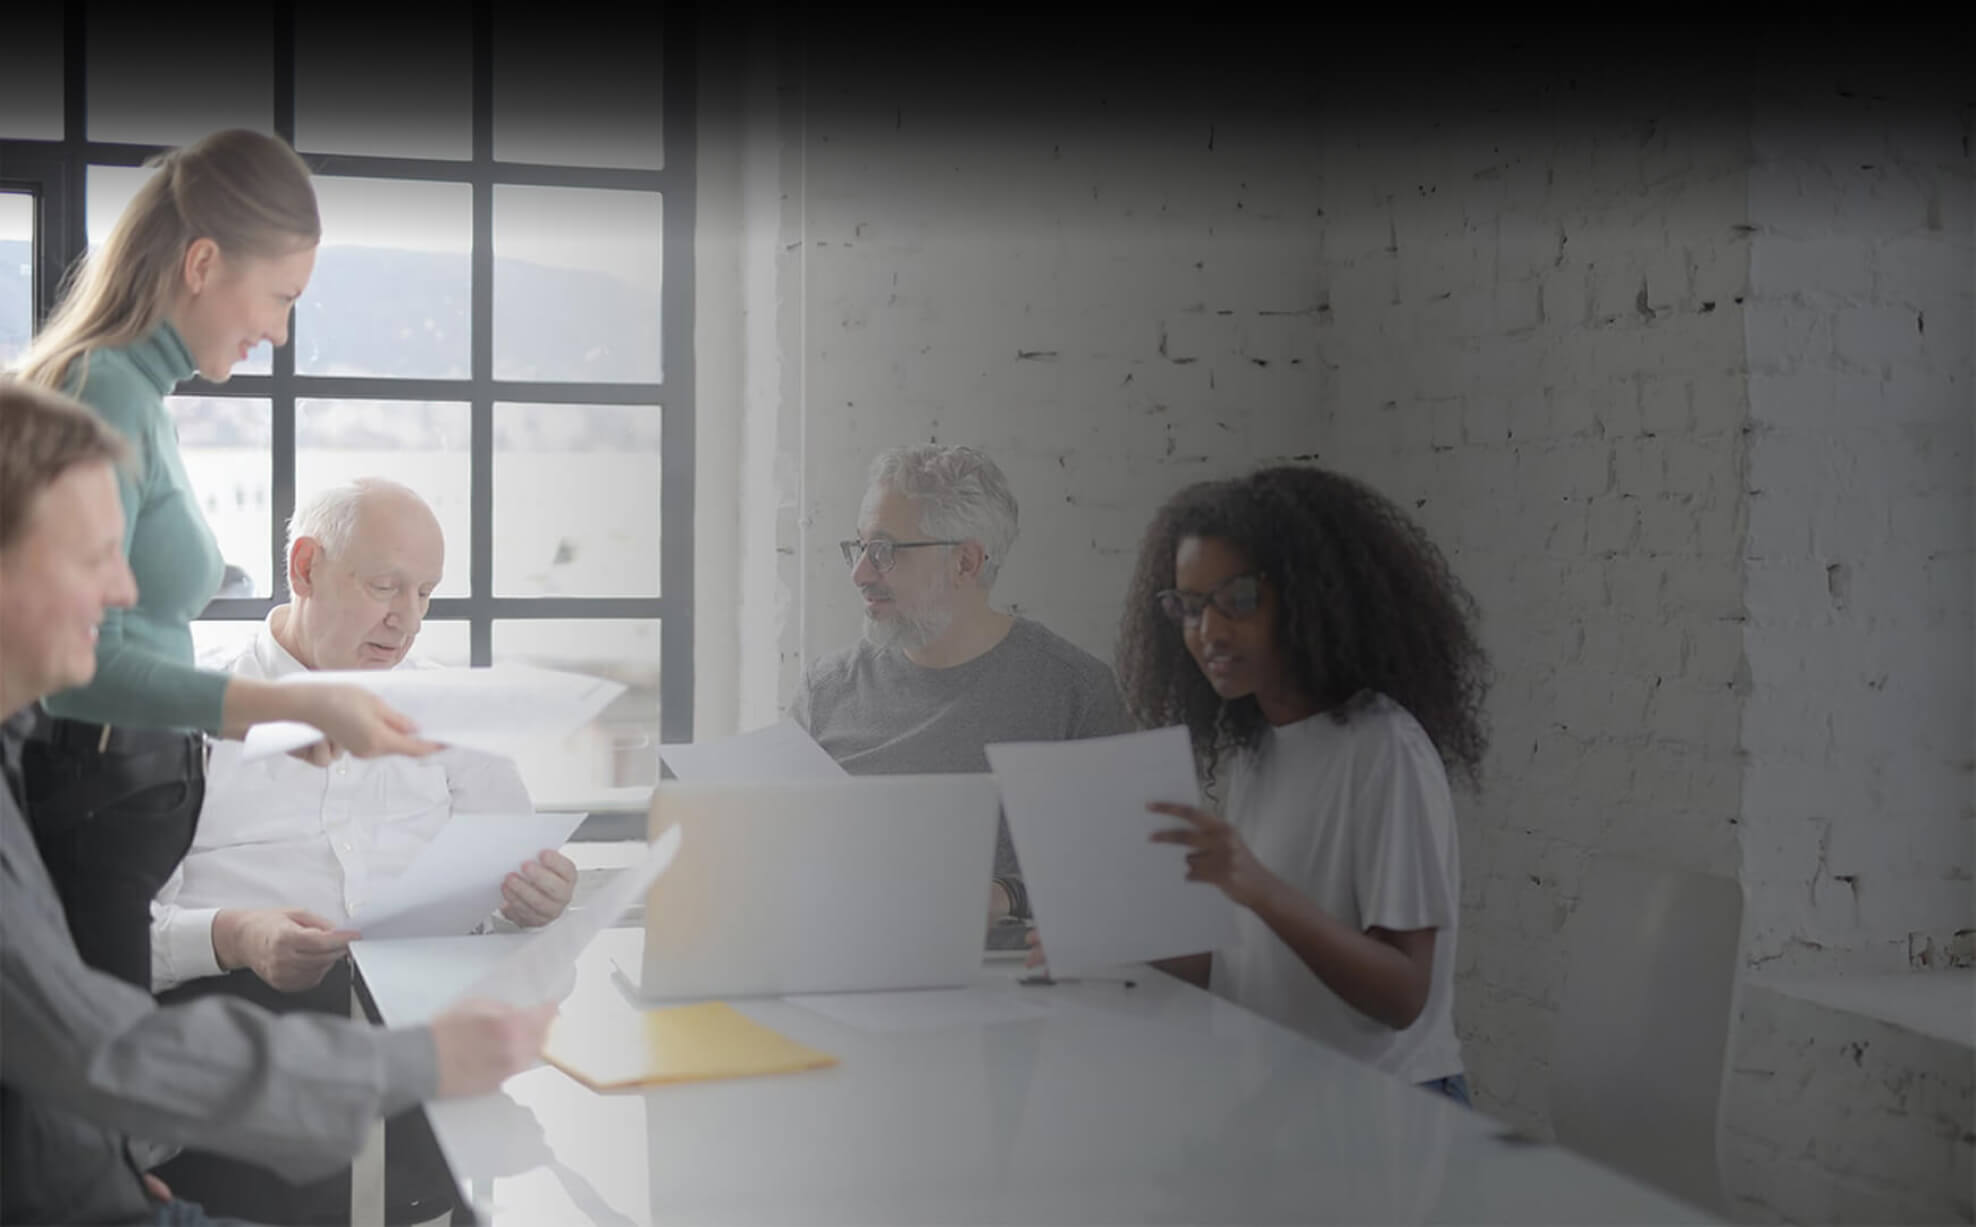
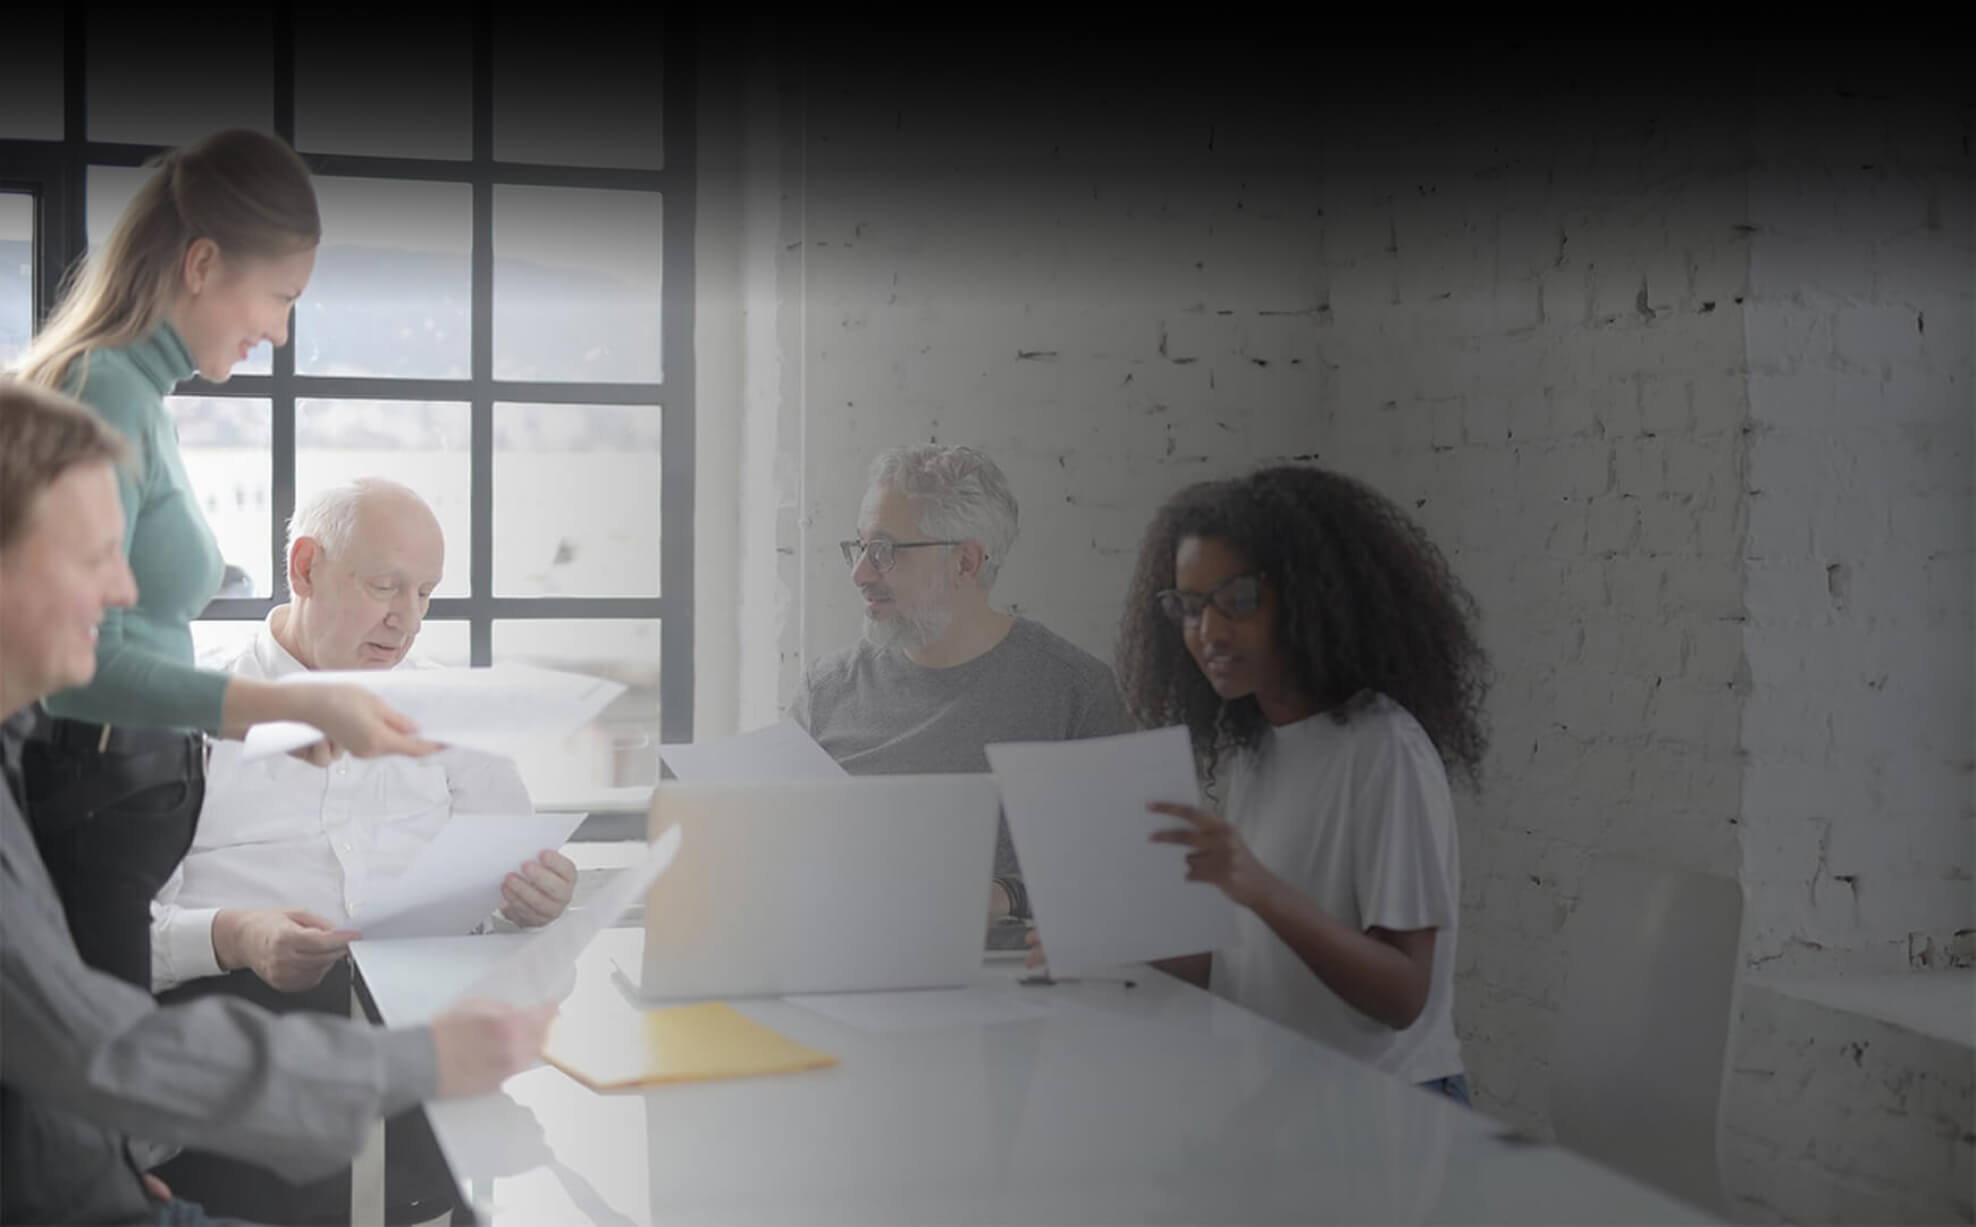
image

Changed region(s): [[0.0, 0.0929, 1.0, 0.2478]]

diff --git a/home.html b/home.html
@@ -602,7 +602,7 @@
                 z-index: 1000;
             }
             .hero {
-                padding-top: 23%;
+                padding-top: 27%;
                 width: 100%;
                 font-size: 1vw;
             }
@@ -868,12 +868,12 @@
 
             <div class=" overlay mx-auto object-center  flex flex-wrap flex-col md:flex-row  " id="bar" style="background-color:rgb(0, 0, 0,0.01);color: white;">
                 <a class="logo flex  items-center  mb-0 mr-auto md:ml-auto " href="home.html">
-                    <img class=" w-30 h-20 p-0 " src="pics/centella.png" alt="">
+                    <img class=" w-31 h-24 p-0 " src="pics/centella.png" alt="">
 
                 </a>
-                <nav id="nvb" class="menu  md:py-2 md:pl-4  md:border-gray-100 z-100 ml-36 mr-auto	flex flex-wrap items-center  justify-center ">
+                <nav id="nvb" class="menu  md:py-2 md:pl-4  md:border-gray-100 z-100 ml-24 mr-auto	flex flex-wrap items-center  justify-center ">
                     <input class="menu-btn hidden" type="checkbox" id="menu-btn">
-                    <label class="menu-icon block cursor-pointer md:hidden px-2 py-0 relative " style="position: relative;top:-10px ;padding-left: 25%;padding-top: 0%;" for="menu-btn">
+                    <label class="menu-icon block cursor-pointer md:hidden px-2 py-0 relative " style="position: relative;top:-15px ;padding-left: 25%;padding-top: 0%;" for="menu-btn">
     <span class="navicon bg-blue-900 flex object-center relative " ></span>
   </label>
                     <ul class="menu  border-b md:border-none text-2xl flex justify-end list-reset m-0    " style="font-weight: 450;">
@@ -890,7 +890,7 @@
                         <li class="active border-t md:border-none"><a class="m-4 hover:text-blue-600" href="centella-discovery.html">Centella Discovery</a></li>
                         <li class="active border-t md:border-none"><a class="m-4 hover:text-blue-600" href="home.html#whycentella">Why Centella?</a></li>
                         <li class="active border-t md:border-none"><a class="m-4 hover:text-blue-600" href="career.html">Career</a></li>
-                        <button class="cont inline-flex text-xl  items-center  p-12 py-1 px-3 focus:outline-none  rounded text-black mx-9 md:mt-0" style="background-color: #1bb3f4;font-weight: bold;font-family: montserrat;"><a href="#consult" >Contact us</a></button>
+                        <button class="cont inline-flex text-lg  items-center  p-12 py-1 px-3 focus:outline-none  rounded text-black mx-9 md:mt-0" style="background-color: #1bb3f4;font-weight: bold;font-family: montserrat;"><a href="#consult" >Contact us</a></button>
                     </ul>
                 </nav>
             </div>
@@ -939,7 +939,7 @@
 
             <div class="abt2 flex-col mx-auto text-center  mb-0" style="font-size: large;">
                 <h4 class="abt2  mx-auto  " style="text-align: center;font-weight: 500;font-family:montserrat;padding-left: 7%;padding-right: 7%;padding-top: 1%;padding-bottom: 0%;">Centella is a technology platform that provide end-to-end scientific research solutions to the scientific community. It is founded and lead by experienced & practicing research scientists. The leadership team at Centella has a 60+yrs of
-                    lative academic and industrial research experiences in the domains of drug discovery, medicinal chemistry, cancer biology, molecular biology, microbiology, biotechnology,and bio informatics. As a strong proponent of science, Centella
+                    cumulative academic and industrial research experiences in the domains of drug discovery, medicinal chemistry, cancer biology, molecular biology, microbiology, biotechnology,and bio informatics. As a strong proponent of science, Centella
                     aims to help the scientific community translate their research ideas and findings into a communication ready format to reach wider audience and create greater impact. We firmly believe in enabling and empowering the global researchers
                     with our offerings and tools. Backed by strong international research collaborative network and supported by large pool of freelance subject matter experts, Centella offers a wide range of services in the space of Scientific communications,
                     Medical Communications and Market Research.</h4>
